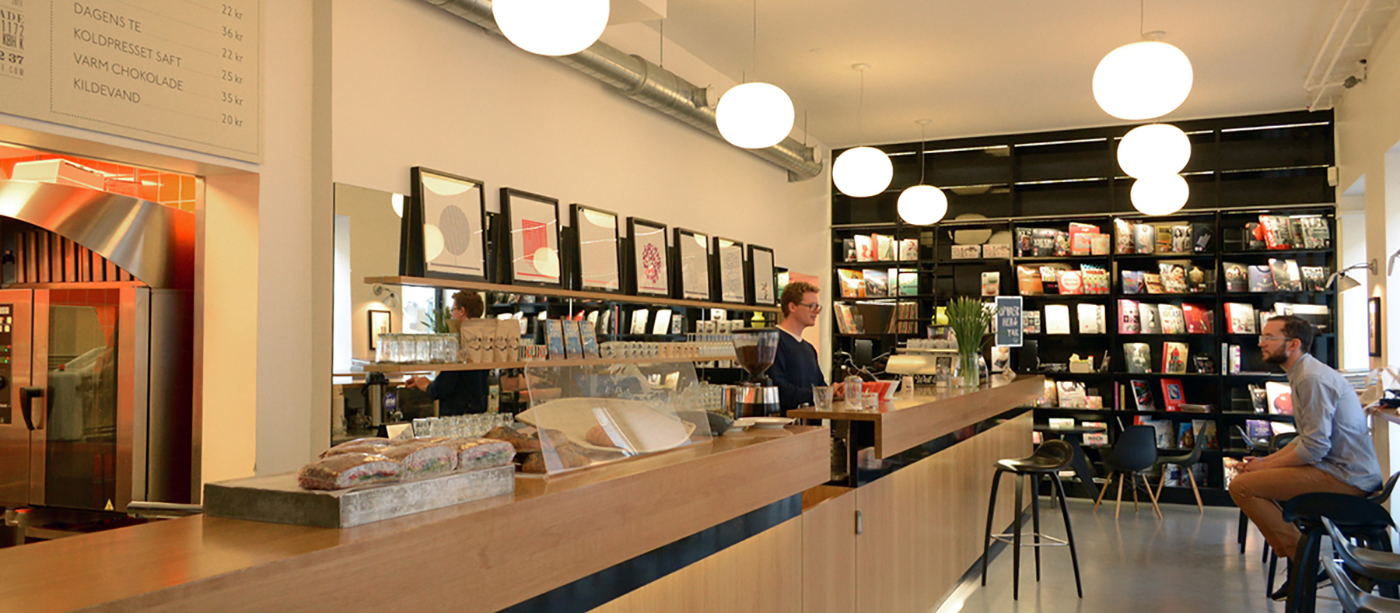
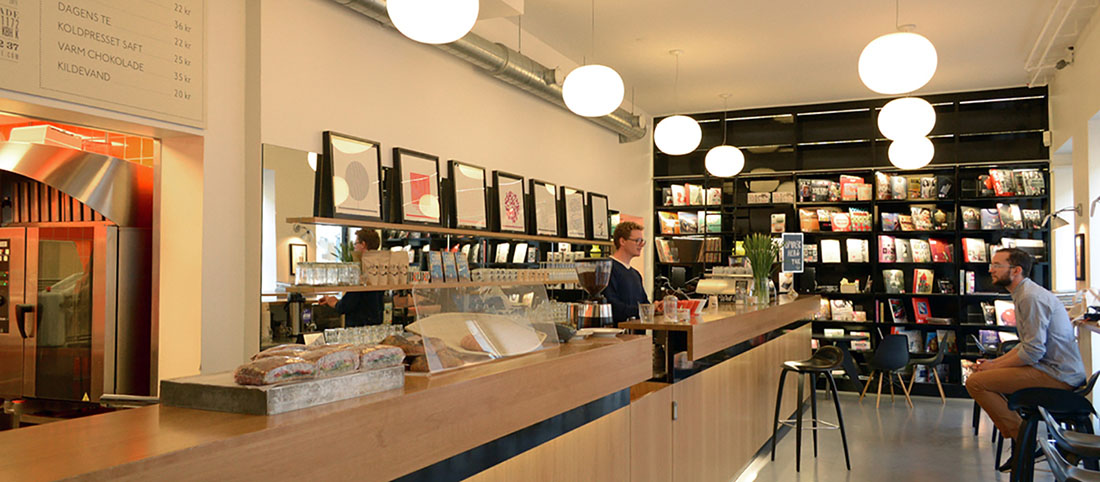
reformatted images again

diff --git a/prototype/style.css b/prototype/style.css
@@ -176,7 +176,7 @@ h2 {font-size: 1.4em
 li {list-style-type: none;
 }
 
-img {max-width: 100%;
+img {width: 100%;
 }
 
 .section-images {width: 100%;
